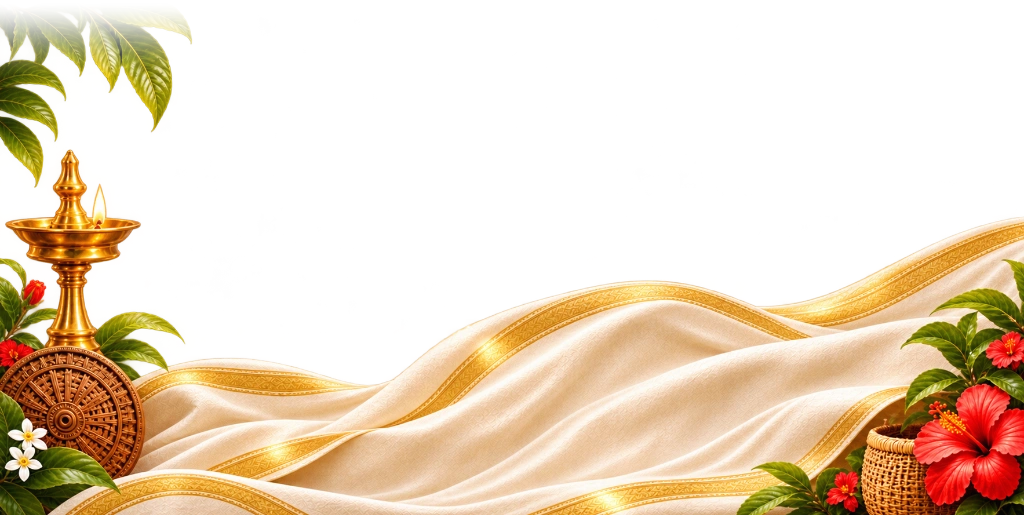
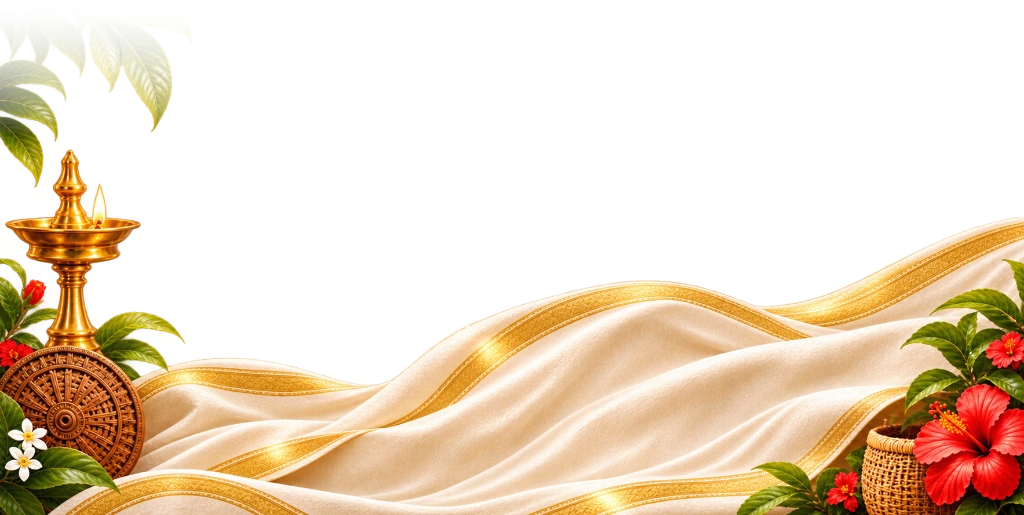
fix(hero): eliminate cropped appearance on top left plant with smooth gradient fade

Changed region(s): [[0.0, 0.0311, 0.1875, 0.2485]]

diff --git a/src/app/hero-kerala.css b/src/app/hero-kerala.css
@@ -130,6 +130,8 @@
 .hero.lt-hero.mh .fg-mid {
   transform: none !important;
   will-change: auto !important;
+  -webkit-mask-image: linear-gradient(180deg, transparent 0%, #000 14%);
+  mask-image: linear-gradient(180deg, transparent 0%, #000 14%);
 }
 
 .hero.lt-hero.mh .fg-left,
